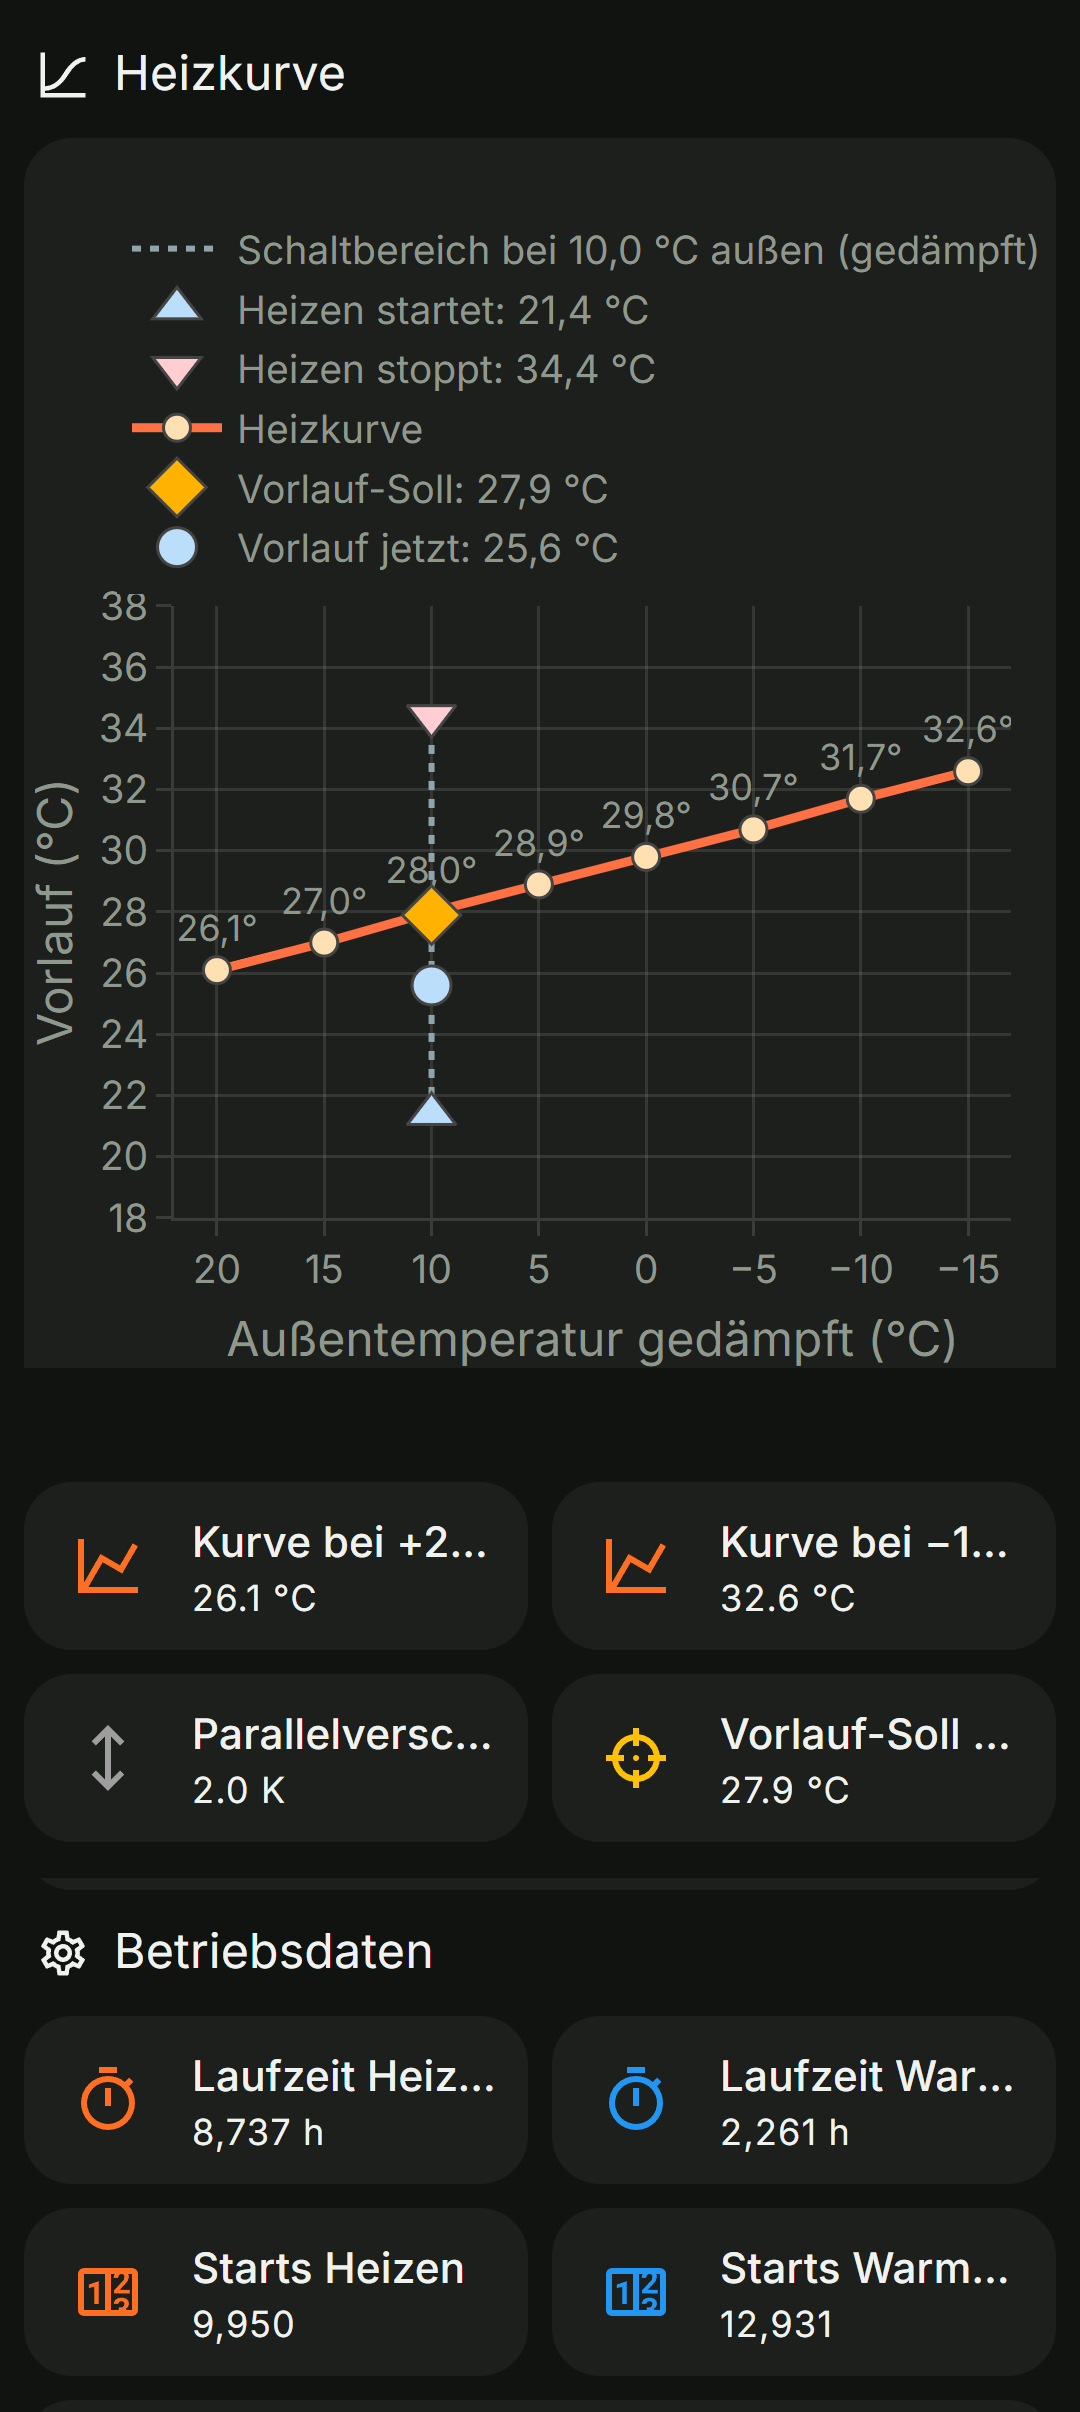
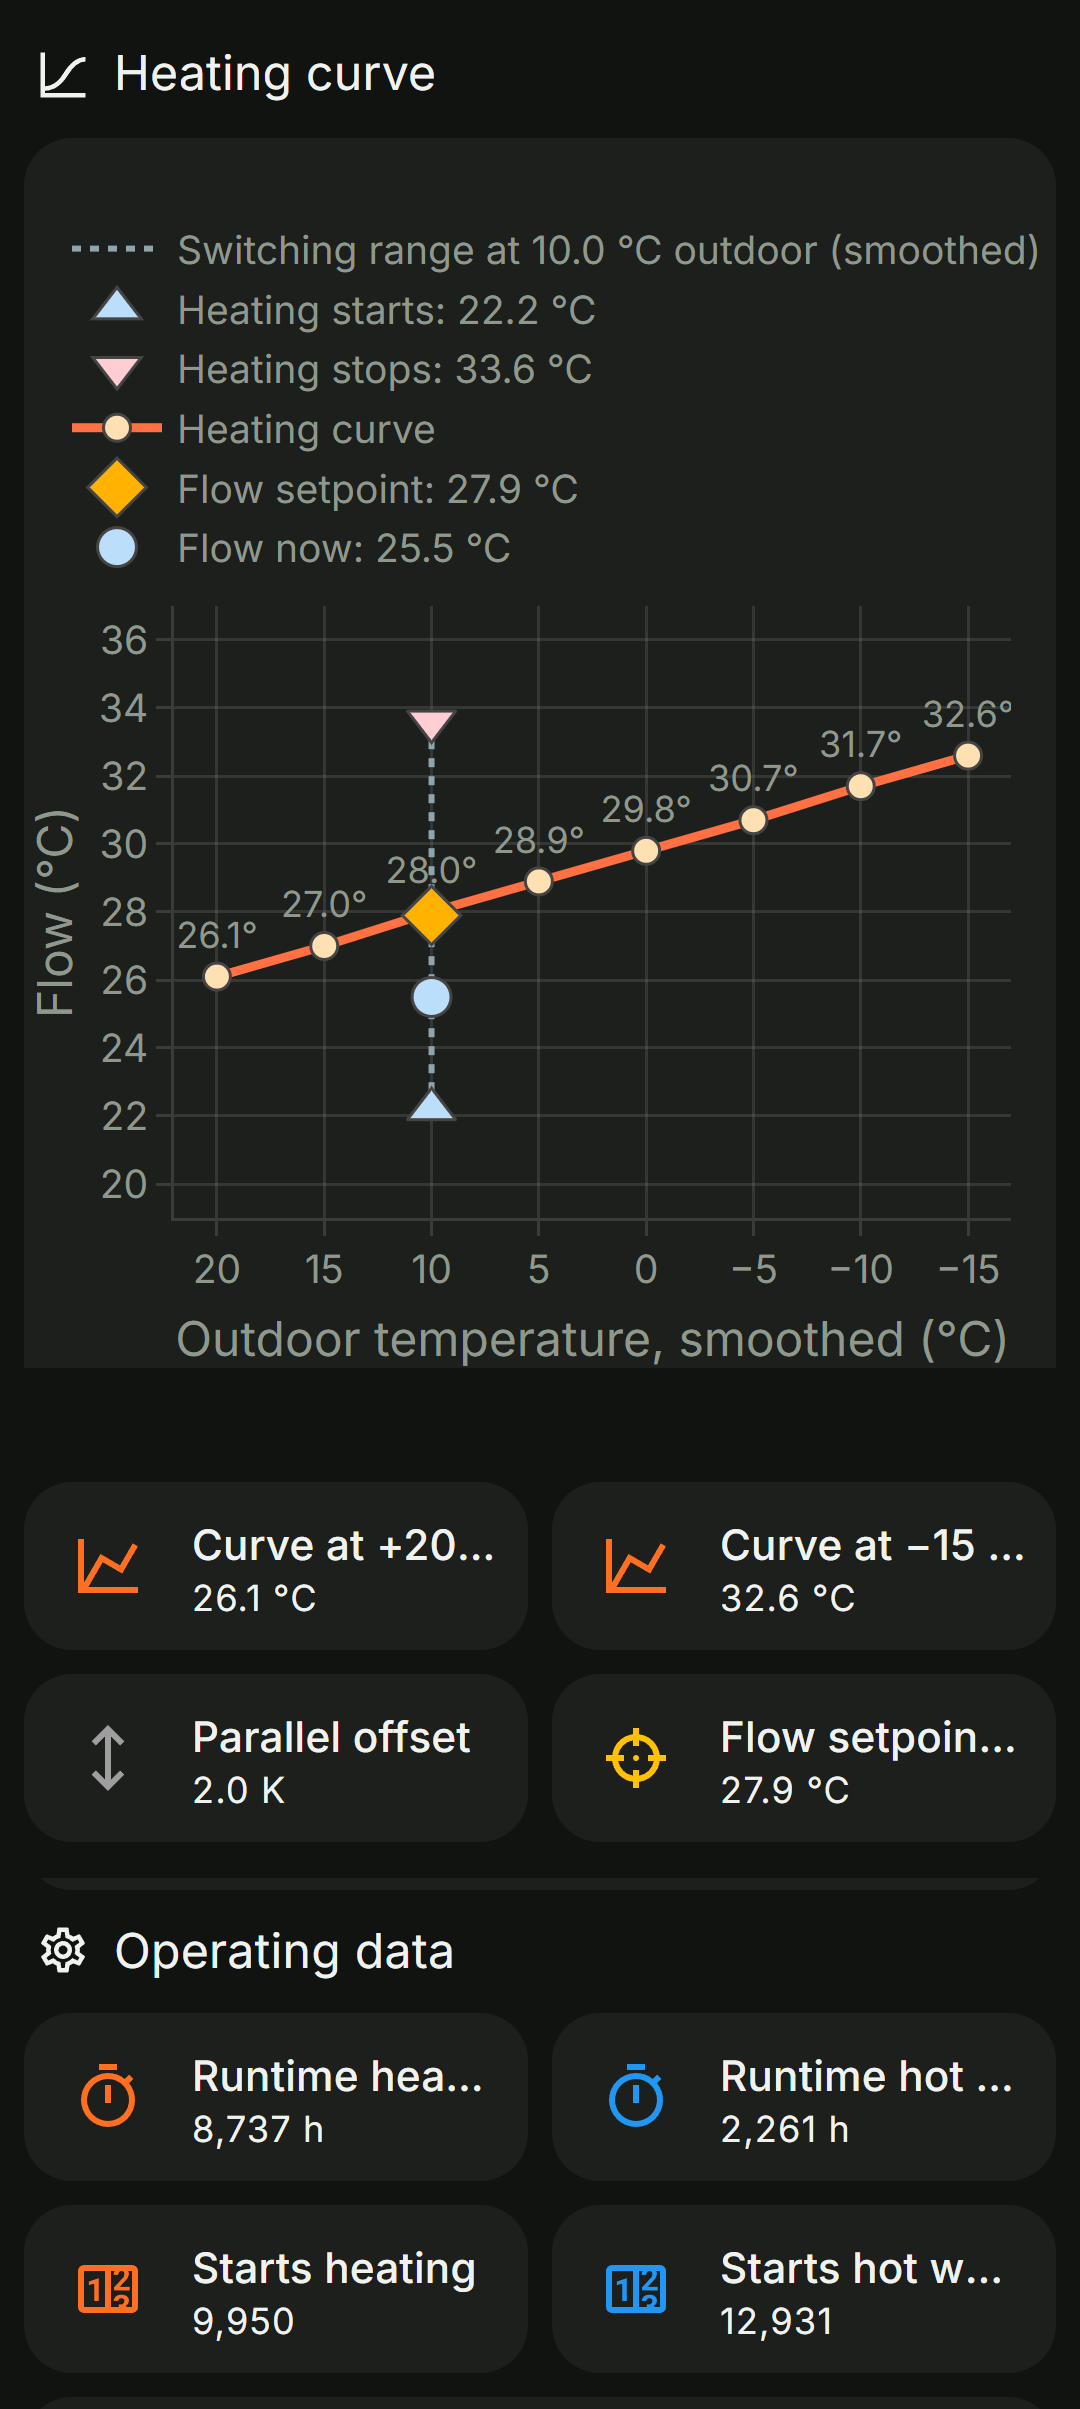
Translate everything to English (dashboard, firmware texts, docs, screenshots)
- Dashboard view: English labels, number/date formats and comments; view path heat-pump
- Firmware: operating mode / flow texts are ESPHome substitutions (English defaults,
  override e.g. with esphome -s mode_heating Heizen ...)
- Status card renamed to heatpump-status-card.yaml and translated
- Docs: German quotes from the manual translated, examples and section names in English
- New English dashboard screenshots

diff --git a/tools/km273_gen_monitor.py b/tools/km273_gen_monitor.py
@@ -114,11 +114,11 @@ text_sensor:
     update_interval: 10s
     lambda: |-
       const float c = id(p_hw_compressor).state, v = id(p_hw_vxv).state;
-      if (std::isnan(c)) return {"Unbekannt"};
-      if (c < 0.5f) return {"Standby"};
-      return {(!std::isnan(v) && v > 0.5f) ? "Warmwasser" : "Heizen"};
+      if (std::isnan(c)) return {"${mode_unknown}"};
+      if (c < 0.5f) return {"${mode_standby}"};
+      return {(!std::isnan(v) && v > 0.5f) ? "${mode_hot_water}" : "${mode_heating}"};
 
-  # Flow with its setpoint for the "Vorlauf" tile, e.g. "25,4 °C (Soll: 28,2 °C)".
+  # Flow with its setpoint for the "Flow" tile, e.g. "25.4 °C (set: 28.2 °C)".
   - platform: template
     name: "Flow with setpoint"
     icon: mdi:radiator
@@ -130,10 +130,10 @@ text_sensor:
       if (std::isnan(s))
         snprintf(buf, sizeof(buf), "%.1f °C", t);
       else
-        snprintf(buf, sizeof(buf), "%.1f °C (Soll: %.1f °C)", t, s);
+        snprintf(buf, sizeof(buf), "%.1f °C (${setpoint_label}: %.1f °C)", t, s);
       std::string out(buf);
       for (auto &ch : out)
-        if (ch == '.') ch = ',';
+        if (ch == '.') ch = '${decimal_separator}';
       return out;
 
 binary_sensor:
@@ -148,6 +148,14 @@ binary_sensor:
 substitutions:
   name: buderus-wps
   friendly_name: {DEVICE}
+  # Texts of the "Operating mode" and "Flow with setpoint" sensors. Override them for another language,
+  # e.g. esphome -s mode_heating Heizen -s mode_hot_water Warmwasser ... run buderus-wps-monitor.yaml
+  mode_standby: Standby
+  mode_heating: Heating
+  mode_hot_water: Hot water
+  mode_unknown: Unknown
+  setpoint_label: set
+  decimal_separator: "."
 
 esphome:
   name: ${{name}}

diff --git a/docs/4-home-assistant.md b/docs/4-home-assistant.md
@@ -14,7 +14,7 @@ python tools/ha_entities.py list buderus_wps
 
 ```
 sensor.haus_buderus_wps_hot_water_gt3        45.2   esphome   Hot water GT3
-sensor.haus_buderus_wps_operating_mode       Heizen esphome   Operating mode
+sensor.haus_buderus_wps_operating_mode       Heating esphome  Operating mode
 ...
 ```
 
@@ -26,7 +26,7 @@ The entity ID is derived from the `label` in `tools/monitor_params.csv`:
 
 | Label | Entity ID (prefix `sensor.<area>_buderus_wps_`) | Example |
 |---|---|---|
-| Operating mode | `…operating_mode` | `Heizen` / `Warmwasser` / `Standby` |
+| Operating mode | `…operating_mode` | `Heating` / `Hot water` / `Standby` |
 | Compressor running | `binary_sensor.…compressor_running` | `on` |
 | Heating flow GT1 | `…heating_flow_gt1` | 31.4 °C |
 | Flow setpoint | `…flow_setpoint` | 30.9 °C |
@@ -40,20 +40,20 @@ The entity ID is derived from the `label` in `tools/monitor_params.csv`:
 
 ## The dashboard
 
-[`homeassistant/wps-dashboard-view.yaml`](../homeassistant/wps-dashboard-view.yaml) is a complete dashboard **view** (type *sections*, German labels):
+[`homeassistant/wps-dashboard-view.yaml`](../homeassistant/wps-dashboard-view.yaml) is a complete dashboard **view** (type *sections*):
 
 | Section | Content |
 |---|---|
-| **Aktueller Status** | Tiles: compressor, operating mode, flow with setpoint, outdoor temperature. Hot water **gauge** with start/stop range and setpoint. |
-| **Energie** | Donut of the produced heat (heating vs. hot water, lifetime), a second donut for the **last 24 h**, heat and electricity **per day** |
-| **Arbeitszahl geschätzt (Datenblattkurven)** | COP estimated from the datasheet curves (brine in GT10, flow GT8): current value and mean per day |
-| **Arbeitszahl real (gemessen)** | Needs an electricity meter and the package below: power, electricity today, COP of the last run / today / per mode, measured COP per day |
-| **Heizkurve** | The heating curve as configured in the pump, with today's operating point |
-| **Letzte 24 Stunden** | History graph of the temperatures; **Betriebsdaten**: compressor runtime and starts, operating mode over 24 h |
+| **Current status** | Tiles: compressor, operating mode, flow with setpoint, outdoor temperature. Hot water **gauge** with start/stop range and setpoint. |
+| **Energy** | Donut of the produced heat (heating vs. hot water, lifetime), a second donut for the **last 24 h**, heat and electricity **per day** |
+| **COP estimated (datasheet curves)** | COP estimated from the datasheet curves (brine in GT10, flow GT8): current value and mean per day |
+| **COP measured** | Needs an electricity meter and the package below: power, electricity today, COP of the last run / today / per mode, measured COP per day |
+| **Heating curve** | The heating curve as configured in the pump, with today's operating point |
+| **Last 24 hours** | History graph of the temperatures; **Operating data**: compressor runtime and starts, operating mode over 24 h |
 
 Screenshots of the reference installation (phone, dark theme):
 
-| Status, hot water, energy | Heat 24 h and per day | Estimated and measured COP | Heating curve, Betriebsdaten |
+| Status, hot water, energy | Heat 24 h and per day | Estimated and measured COP | Heating curve, operating data |
 |---|---|---|---|
 | <img src="Pictures/HA_example_1.png" alt="Status, hot water gauge, lifetime heat donut" width="200"> | <img src="Pictures/HA_example_2.png" alt="Heat produced in the last 24 h, heat and electricity per day" width="200"> | <img src="Pictures/HA_example_3.png" alt="Estimated COP per day, measured power, electricity and COP" width="200"> | <img src="Pictures/HA_example_4.png" alt="Heating curve with switching band, compressor runtimes and starts" width="200"> |
 | Compressor, mode, flow with setpoint, brine. Hot water gauge with start/stop range. Heat produced over the pump's lifetime. | Heat produced in the last 24 h; heat and electricity per day. | COP estimated from the datasheet curves; measured power, electricity and COP (last run, today, per mode, per day). | The heating curve with today's operating point and the current start/stop band. Compressor runtimes and starts. (The 24 h history graphs are not shown.) |
@@ -78,7 +78,7 @@ Screenshots of the reference installation (phone, dark theme):
 
 2. **Either via the UI:** open a dashboard → ✏ Edit → **+ Add view** → open the new view's settings → ⋮ **Edit in YAML** → replace everything with the file's content → Save.
 
-3. **Or with the script** (replaces the view with the same `path: waermepumpe` in an existing dashboard and saves a backup of the whole dashboard to `homeassistant/backups/` first):
+3. **Or with the script** (replaces the view with the same `path: heat-pump` in an existing dashboard and saves a backup of the whole dashboard to `homeassistant/backups/` first):
 
    ```bash
    # once: create a long-lived access token (HA profile → Security) and store it
@@ -89,11 +89,11 @@ Screenshots of the reference installation (phone, dark theme):
    python tools/ha_dashboard.py push lovelace homeassistant/wps-dashboard-view.yaml
    ```
 
-   `lovelace` is the default dashboard; for another dashboard use its URL path. The view must already exist once (step 2 with only `path: waermepumpe`), then `push` keeps it up to date.
+   `lovelace` is the default dashboard; for another dashboard use its URL path. The view must already exist once (step 2 with only `path: heat-pump`), then `push` keeps it up to date.
 
 ### A compact card for another page
 
-[`homeassistant/keller-heatpump-card.yaml`](../homeassistant/keller-heatpump-card.yaml) is an example of a small status block (operating mode, flow, hot water, outdoor temperature) that links to the full view. It needs the HACS cards **button-card** and **card-mod**. Add it with *Add card → Manual*, and adapt the entity prefix as above.
+[`homeassistant/heatpump-status-card.yaml`](../homeassistant/heatpump-status-card.yaml) is an example of a small status block (operating mode, flow, hot water, outdoor temperature) that links to the full view. It needs the HACS cards **button-card** and **card-mod**. Add it with *Add card → Manual*, and adapt the entity prefix as above.
 
 ## Examples
 
@@ -101,7 +101,7 @@ Screenshots of the reference installation (phone, dark theme):
 
 ```yaml
 automation:
-  - alias: "Warmwasser niedrig"
+  - alias: "Hot water low"
     triggers:
       - trigger: numeric_state
         entity_id: sensor.buderus_wps_hot_water_display
@@ -110,7 +110,7 @@ automation:
     actions:
       - action: notify.notify
         data:
-          message: "Warmwasser nur noch {{ states('sensor.buderus_wps_hot_water_display') }} °C"
+          message: "Hot water only {{ states('sensor.buderus_wps_hot_water_display') }} °C"
 ```
 
 ### Count compressor starts per day
@@ -130,7 +130,7 @@ utility_meter:
 ```yaml
 template:
   - sensor:
-      - name: "WPS mittlere Laufzeit Heizen heute"
+      - name: "WPS average run time heating today"
         unit_of_measurement: "min"
         state: >
           {% set starts = states('sensor.wps_starts_heating_daily') | float(0) %}

diff --git a/docs/2-pump-connection.md b/docs/2-pump-connection.md
@@ -6,7 +6,7 @@ References in this chapter point to the Buderus installation manual *Logatherm W
 
 ## The pump's CAN bus
 
-All boards inside the pump talk over one CAN bus (125 kbit/s). The bus is a chain with a **termination at each end**, set with a small switch labelled **Term** on the boards at the ends (manual, figure 34 "CAN-BUS-Übersicht"):
+All boards inside the pump talk over one CAN bus (125 kbit/s). The bus is a chain with a **termination at each end**, set with a small switch labelled **Term** on the boards at the ends (installation manual, figure 34, CAN bus overview):
 
 ```
   PEL  ───── PSU ───── BAS ───── LCD
@@ -29,7 +29,7 @@ Each CAN connection has **four wires**: +12 V, GND, CAN-H, CAN-L. The boards are
 Connect the adapter to the **CAN-BUS connector on the PEL board**, the same place where Buderus accessories like the HRC 2 room controller are connected. This gives you CAN-H, CAN-L and the 12 V supply for the adapter in one place.
 
 1. Switch the pump off at the breaker and wait a few minutes.
-2. Open the front cover and the electrical box. The PEL board is in the electrical box (manual, figure 33 "Übersicht Leiterplatte", variant a) for WPS K-1).
+2. Open the front cover and the electrical box. The PEL board is in the electrical box (installation manual, figure 33, circuit board overview, variant a) for WPS K-1).
 3. Find the 4-pole CAN connector and the **Term** switch next to it. **Read the markings on your board** for +12 V, GND, CAN-H, CAN-L and write them down. Don't rely on positions in photos from other pumps.
 4. Run your cable through a free cable gland, away from mains cables (≥ 100 mm), and connect it.
 
@@ -51,7 +51,7 @@ Connections:
 
 ## The Term switch (termination)
 
-A CAN bus needs **exactly two** 120 Ω terminations, one at each physical end. The manual says it plainly: *"Der Schalter Term markiert Anfang und Ende der CAN-BUS-Verbindung. Achten Sie darauf, dass die richtigen Karten terminiert sind und alle übrigen nicht terminiert sind."* And for accessories: *"Wird zusätzlich ein Multimodul, eine Passive Kühlstation oder ein Raumregler HRC 2 installiert, muss das letzte Bauteil in der CAN-BUS-Kette terminiert werden."*
+A CAN bus needs **exactly two** 120 Ω terminations, one at each physical end. The manual says it plainly (translated from the German installation manual): *"The Term switch marks the beginning and the end of the CAN bus connection. Make sure that the right boards are terminated and all others are not."* And for accessories: *"If a multi-module, a passive cooling station or an HRC 2 room controller is also installed, the last component in the CAN bus chain must be terminated."*
 
 Our adapter is connected like such an accessory, at the end of the chain behind the PEL board. So:
 

diff --git a/docs/3-firmware.md b/docs/3-firmware.md
@@ -141,8 +141,8 @@ Besides one sensor per CSV line, the generator adds:
 | **Hot water (display)** | GT3 + display offset (`DHW_CALCULATED_SETPOINT_TEMP_OFFSET`, factory 4 K). This is the value the pump's display shows as hot water temperature. |
 | **Heating curve left/right point (display)** | Heating curve end points including the parallel offset, as on the display |
 | **Estimated COP**, **… heating**, **… hot water** | COP estimated from the datasheet curves (brine in GT10, heat pump flow GT8). It is *unknown* when the compressor is off and for 60 s after a start or a heating↔hot water switch. |
-| **Operating mode** | `Standby`, `Heizen` or `Warmwasser`, from the compressor and the diverter valve |
-| **Flow with setpoint** | Text like `25,4 °C (Soll: 28,2 °C)` for a dashboard tile |
+| **Operating mode** | `Standby`, `Heating` or `Hot water`, from the compressor and the diverter valve. The texts are ESPHome substitutions (`mode_standby`, `mode_heating`, `mode_hot_water`, `mode_unknown`) at the top of the firmware file; change them there or override them when flashing, e.g. `esphome -s mode_heating Heizen -s mode_hot_water Warmwasser run buderus-wps-monitor.yaml`. |
+| **Flow with setpoint** | Text like `25.4 °C (set: 28.2 °C)` for a dashboard tile (substitutions `setpoint_label` and `decimal_separator`) |
 | **Compressor running** | Binary sensor (device class *running*) |
 | **CAN frame rate** | Diagnostics: received frames per second |
 | **CAN sniffer log** | Switch: logs every new/changed frame (off by default) |

diff --git a/TODO.md b/TODO.md
@@ -8,6 +8,6 @@
 - [x] Pumps (2026-11-09): G1 = heating circuit (on in both states), G2 = heat carrier, variable speed (37 % idle → 71 % running), G3 = brine pump (only with compressor).
 - [ ] Unit of `STATS_ELECTR_ADD_*` (electric heater counters).
 - [ ] Heating curve chart assumes adjustment Y1 = +20 °C … Y8 = −15 °C (all 0 today). If a single point is ever adjusted on the display, check that the chart bends at the right place.
-- [x] Final polling intervals (2026-11-09): only the 37 parameters used on the Wärmepumpe page, 10 s … 15 min per parameter (`interval_s` in tools/monitor_params.csv).
+- [x] Final polling intervals (2026-11-09): only the 37 parameters used on the heat pump page, 10 s … 15 min per parameter (`interval_s` in tools/monitor_params.csv).
 - [ ] Median COP heating / hot water (HA statistics helper) and overall COP = ΣQ / Σ(Q/COP) - proposed, not decided.
 - [ ] Writing parameters (e.g. hot water settings) from Home Assistant: only after the menu → parameter mapping is proven, with an allowlist and read-back.

diff --git a/README.md b/README.md
@@ -83,8 +83,8 @@ tools/
   ha_dashboard.py            uploads a dashboard view to Home Assistant
   ha_entities.py             lists/removes Home Assistant entities
 homeassistant/
-  wps-dashboard-view.yaml    the "Wärmepumpe" dashboard view
-  keller-heatpump-card.yaml  example: compact status card for another view
+  wps-dashboard-view.yaml    the "Heat pump" dashboard view
+  heatpump-status-card.yaml  example: compact status card for another view
 km273_dictionary.csv         element table of a WPS 8K-1 (1792 parameters) + labels and notes
 data/                        raw element table dump of that pump (reference)
 docs/                        this documentation
